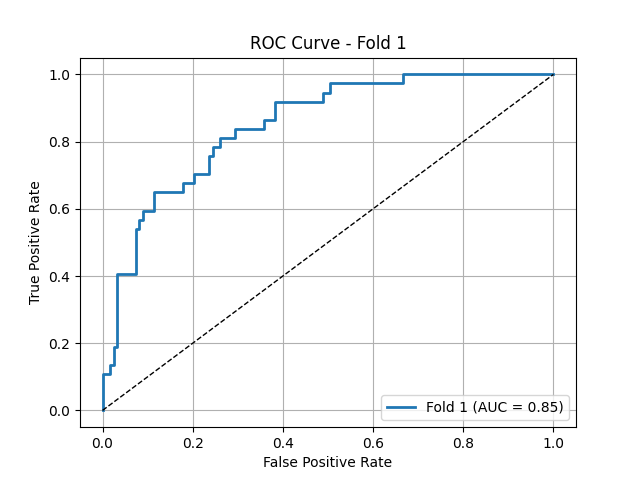
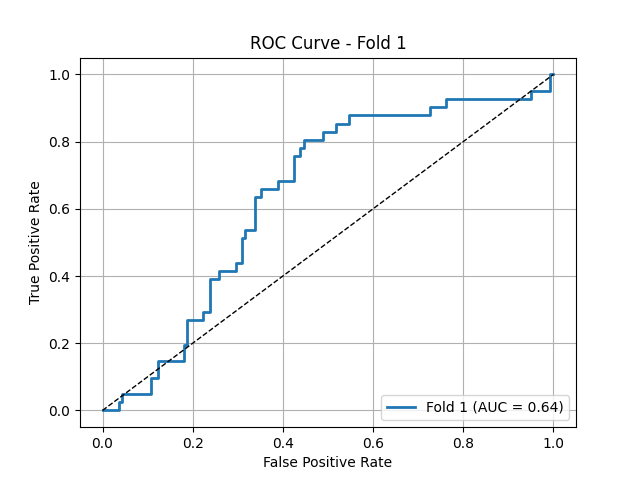
testset with best baseline encoder with kfold10

diff --git a/dataset_washu2.py b/dataset_washu2.py
@@ -78,7 +78,7 @@ train_transform = A.Compose([
     A.HorizontalFlip(p=0.5),
     A.VerticalFlip(p=0.5),
     A.RandomRotate90(p=0.5),
-    A.ElasticTransform(p=0.2),
+    A.ElasticTransform(p=0.5),
     A.GridDistortion(p=0.2),
     A.Normalize(mean=(0.5,), std=(0.5,)),  # Adjust if using RGB
     ToTensorV2()
@@ -95,110 +95,6 @@ val_transform = A.Compose([
 
  # This dataset loader will be used for experiment with single image based (MR1 or MR2) model , where model is encoder(narrow) + fc regression model   
 class Classificaiton_Dataset(Dataset):
-	# def __init__(
-	# 	self,
-	# 	root_dir=r"data\Ovarian_Reviewed_Data",
-	# 	response_dir=r"data\PAT_imaging_record.xlsx",
-	# 	radiomics_dir=  False, #r"Only_radiomics_based_classification\radiomics_features_washu2_p1_143_with_labels_sdf3_nd_normseg.csv", #r"Radiomics_feature_extraction_nd_seg\radiomics_features_washu2.csv",
-	# 	phase="train",
-	# 	k_fold=5,
-	# 	fold=0,
-	# ):
-	# 	self.root_dir = root_dir
-	# 	self.phase = phase
-	# 	self.radiomics_dir = radiomics_dir
-
-	# 	# === Step 1: Load radiomics features (if provided) ===
-	# 	if radiomics_dir:
-	# 		radiomics_db = pd.read_csv(radiomics_dir)
-	# 		print("Radiomics features shape: ", radiomics_db.shape)
-
-	# 		radiomics_db['ImagePath'] = radiomics_db['ImagePath'].apply(
-	# 			lambda p: os.path.normpath(p).replace("\\", "/").split("Images/")[-1].replace("Patient_", "p")
-	# 		)
-	# 		radiomics_db = radiomics_db.set_index("ImagePath")
-	# 		radiomics_db = radiomics_db.drop(columns=["PatientID", "Side", "GT", "ImagePath", "Patient ID"], errors='ignore')
-
-	# 		scaler = StandardScaler()
-	# 		scaled_values = scaler.fit_transform(radiomics_db.values)
-	# 		radiomics_db.loc[:, :] = scaled_values
-
-	# 	# === Step 2: Load Excel response sheet ===
-	# 	df = pd.read_excel(response_dir, sheet_name="ROI STATS V4 (3)")
-	# 	df = df.dropna(subset=["Patient ID", "Side", "GT"])
-	# 	df["Patient ID"] = df["Patient ID"].astype(int).astype(str).str.strip()
-	# 	df["Side"] = df["Side"].astype(str).str.strip()
-	# 	df["GT"] = pd.to_numeric(df["GT"], errors="coerce").astype("Int64")
-	# 	df = df.dropna(subset=["GT"])
-	# 	df["GT"] = (df["GT"].astype(int)<1).astype(int)
-	# 	df["PatientSide"] = df.apply(lambda row: f"p{row['Patient ID']}_{row['Side']}", axis=1)
-
-	# 	grouped_gt = df.groupby("PatientSide")["GT"].agg(lambda x: x.mode()[0])
-	# 	case_ids = grouped_gt.index.tolist()
-	# 	case_labels = grouped_gt.values.tolist()
-
-	# 	# === Step 3: Stratified split by (Patient, Side) ===
-	# 	skf = StratifiedKFold(n_splits=k_fold, shuffle=True, random_state=42)
-	# 	splits = list(skf.split(case_ids, case_labels))
-	# 	train_indices, val_indices = splits[fold]
-	# 	train_cases = [case_ids[i] for i in train_indices]
-	# 	val_cases = [case_ids[i] for i in val_indices]
-
-	# 	if phase == "train":
-	# 		selected_cases = set(train_cases)
-	# 		self.transform = train_transform
-	# 	else:
-	# 		selected_cases = set(val_cases)
-	# 		self.transform = val_transform
-
-	# 	# === Step 4: Label map for quick access ===
-	# 	label_map = {
-	# 		f"p{row['Patient ID']}_{row['Side']}": row["GT"]
-	# 		for _, row in df.iterrows()
-	# 	}
-
-	# 	# === Step 5: Scan filesystem and collect data ===
-	# 	all_samples = []
-
-	# 	for patient_id in os.listdir(root_dir):
-	# 		patient_path = os.path.join(root_dir, patient_id)
-	# 		if not os.path.isdir(patient_path):
-	# 			continue
-
-	# 		for side in os.listdir(patient_path):
-	# 			side_path = os.path.join(patient_path, side)
-	# 			if not os.path.isdir(side_path):
-	# 				continue
-
-	# 			case_key = f"{patient_id}_{side}"
-	# 			if case_key not in selected_cases:
-	# 				continue
-
-	# 			if case_key not in label_map:
-	# 				continue  # skip missing labels
-
-	# 			label = label_map[case_key]
-
-	# 			for fname in os.listdir(side_path):
-	# 				full_path = os.path.join(side_path, fname)
-	# 				if not os.path.isfile(full_path):
-	# 					continue
-	# 				if not fname.lower().endswith(('.png', '.jpg', '.jpeg', '.bmp', '.tif')):
-	# 					continue
-
-	# 				if radiomics_dir:
-	# 					relative_path = os.path.relpath(full_path, start=self.root_dir).replace("\\", "/")
-	# 					if relative_path in radiomics_db.index:
-	# 						radiomics = radiomics_db.loc[relative_path].values.astype(float)
-	# 						all_samples.append((full_path, label, radiomics))
-	# 					else:
-	# 						print(f"⚠ Radiomics not found for {relative_path}")
-	# 						continue
-	# 				else:
-	# 					all_samples.append((full_path, label))
-
-	# 	self.data = all_samples
-
 	def __init__(
 				self,
 				root_dir=r"data/Ovarian_Reviewed_Data",
@@ -333,7 +229,7 @@ class Classificaiton_Dataset(Dataset):
 	
 if __name__ == '__main__':
 	#Classificaiton_Dataset(phase = 'train', img_transform= transform_img)
-	train_dataset = Classificaiton_Dataset(phase = 'test')
+	train_dataset = Classificaiton_Dataset(phase = 'val', k_fold=10, fold= 2)
 	print("train dataset size: ", len(train_dataset))
 	#print("test dataset size: ", len(train_dataset))
 	#print("data sample: ", train_dataset.data) 
@@ -344,17 +240,17 @@ if __name__ == '__main__':
 	# print(train_dataset[1][1].max())
 	# print(len(train_dataset))
 
-	for i in range(10):
-		if train_dataset.radiomics_dir: 
-			img, radiomics, label = train_dataset[i]
-		else: 
-			img, label = train_dataset[i]
-		#print("radiomics: ", radiomics.shape)
-		print(label)
-		plt.figure()
-		#plt.subplot(1,3,1)
-		plt.imshow(img[0], cmap= 'gray')
-		plt.show()
+	# for i in range(5):
+	# 	if train_dataset.radiomics_dir: 
+	# 		img, radiomics, label = train_dataset[i]
+	# 	else: 
+	# 		img, label = train_dataset[i]
+	# 	#print("radiomics: ", radiomics.shape)
+	# 	print(label)
+	# 	plt.figure()
+	# 	#plt.subplot(1,3,1)
+	# 	plt.imshow(img[0], cmap= 'gray')
+	# 	plt.show()
 
 
 	Malignant_count = 0 

diff --git a/models.py b/models.py
@@ -195,7 +195,7 @@ class BinaryClassification(pl.LightningModule):
         encoder = segmodel.encode 
         encoder.to(device = "cpu")
         self.encoder = encoder
-        self.encoder_trainable = Compress_Segmentor.load_from_checkpoint(encoder_weight_path, strict=True).encode
+        self.encoder_trainable = MyEncoder() #Compress_Segmentor.load_from_checkpoint(encoder_weight_path, strict=True).encode
 
         # **Freeze the encoder weights**
         for param in self.encoder.parameters():
@@ -276,7 +276,7 @@ class BinaryClassification(pl.LightningModule):
 
     def forward(self, x, x2_radiomics=None):    
         x1 = self.encoder(x)
-        x2 = self.encoder_trainable(x)*0
+        x2 = self.encoder_trainable(x)
         
         x = torch.cat((x1, x2), dim=1)  # Concatenate the outputs from both encoders
         x = x.reshape(x.shape[0], -1)

diff --git a/train_washu2_classifier.py b/train_washu2_classifier.py
@@ -23,7 +23,7 @@ min_epochs = 1
 batch_size = 16
 check_val_every_n_epoch = 3
 num_workers = 0
-k_fold = 5
+k_fold = 10
 
 try: 
     # Get the latest Git commit message
@@ -41,7 +41,7 @@ all_tprs = []
 all_aucs = []
 
 project_title = "Ovarian Cancer Classification"
-Experiment_Group = f"Radiomics_False_single_pretrained_encoder_testset_Exp0_{commit_log}"
+Experiment_Group = f"Radiomics_False_single_pretrained_encoder_testset_Exp3_{commit_log}"
 train_config = {
         "k_fold": k_fold,
         "batch_size": batch_size,
